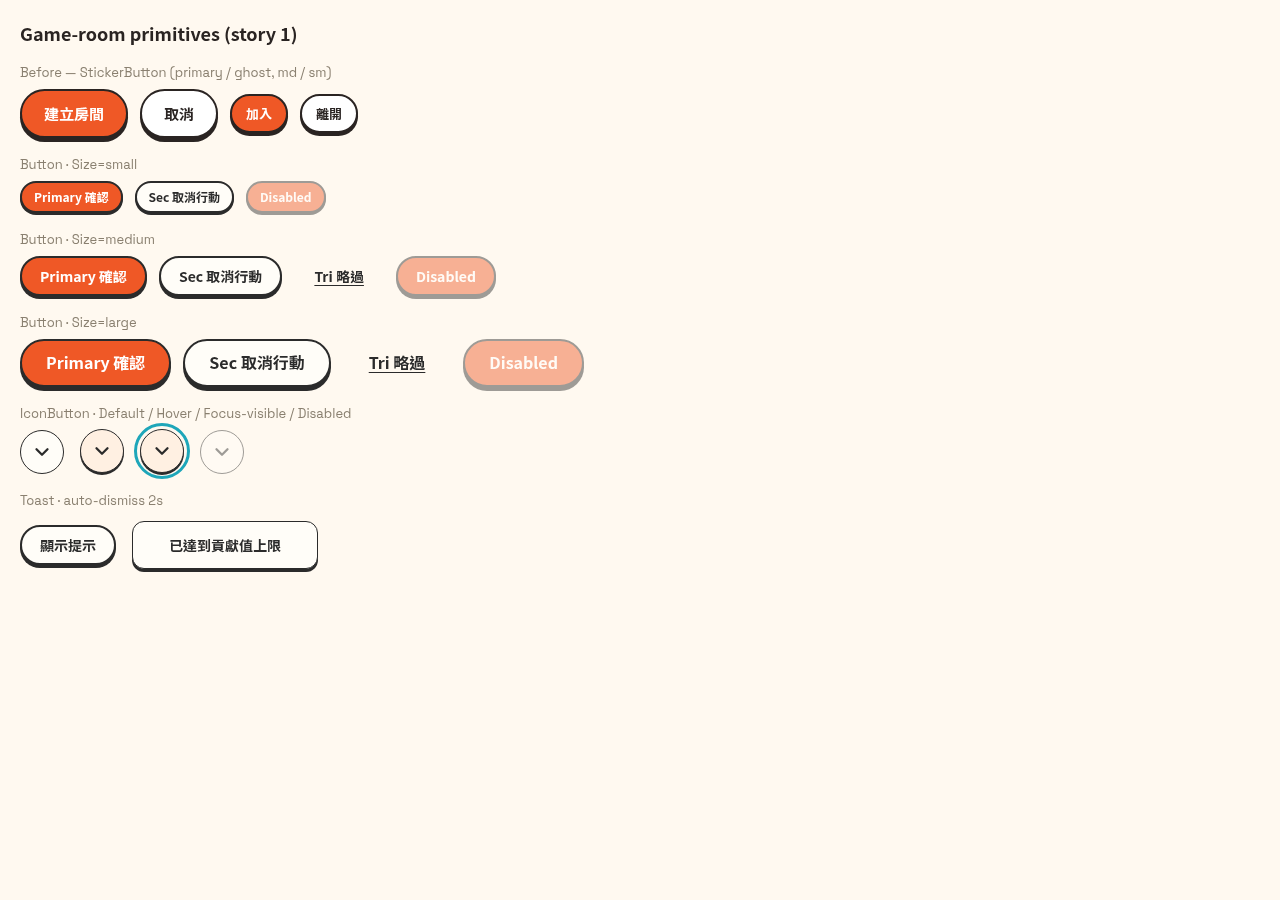
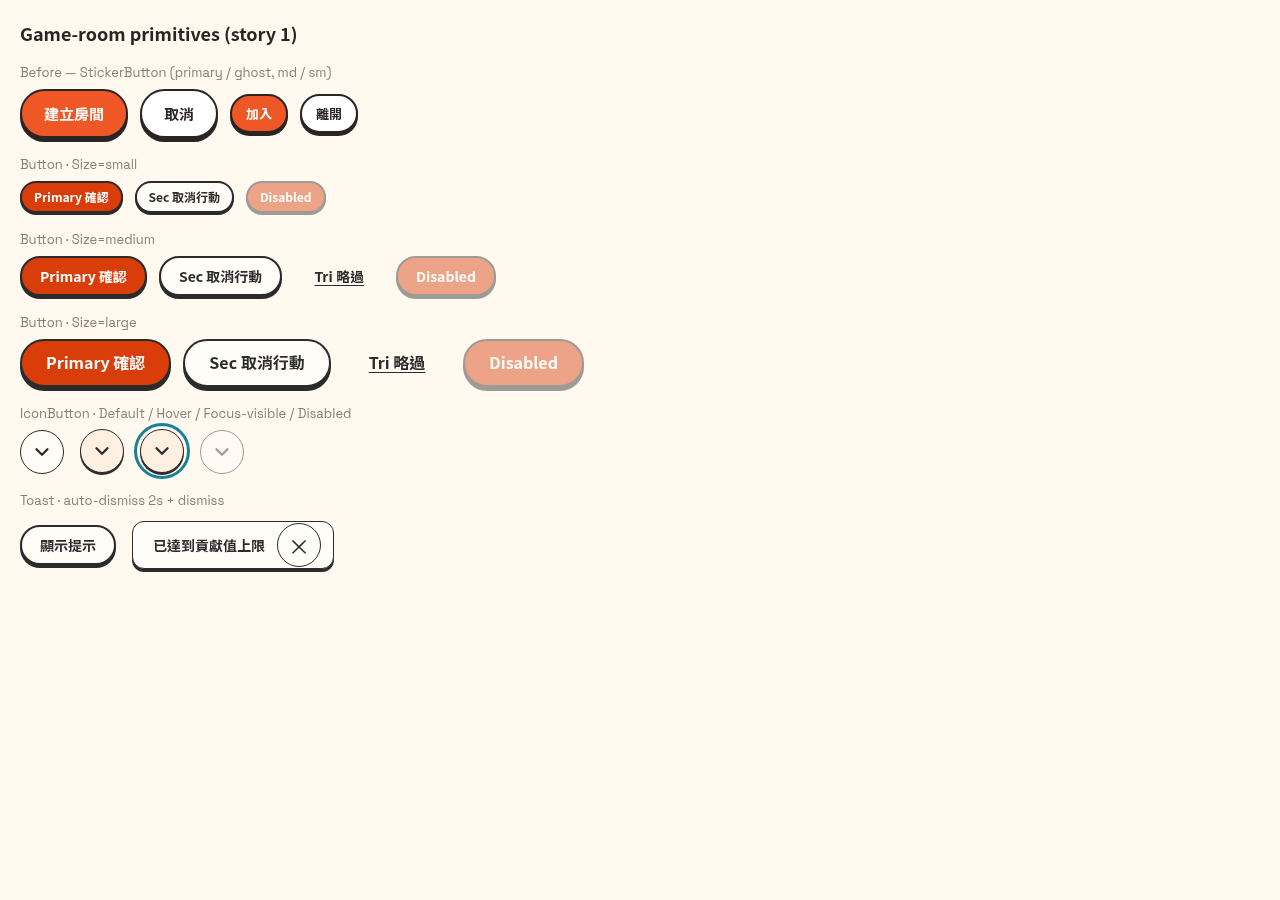
fix(webapp): raise Button contrast and improve Toast dismiss
Use --orange-deep for Primary (4.57:1) and --teal-deep for the
focus ring (4.44:1). Extend Medium/Small hit areas to 44px, and
add a Toast dismiss control that restarts the timer on retrigger.

diff --git a/packages/webapp/src/app/globals.css b/packages/webapp/src/app/globals.css
@@ -600,9 +600,10 @@ body:has(.modal[open]) {
 /* ============================================================
    Game-room primitives (revamp story 1, epic #481): Button,
    IconButton, Toast in components/design/. Hexes come from the
-   Main1.1.1 Figma tokens; the Primary fill reuses --orange.
+   Main1.1.1 Figma tokens; the Primary fill uses --orange-deep for contrast.
    ============================================================ */
 :root {
+  --orange-deeper: #b83208;
   --gr-ink: #2b2b2b; /* Border/Default, Text/Primary */
   --gr-text-secondary: #8a8070;
   --gr-bg-light: #fffdf8;
@@ -642,15 +643,23 @@ body:has(.modal[open]) {
   font-size: 12px;
   box-shadow: 0 2px 0 var(--gr-ink);
 }
-/* Small renders at 32px but keeps a 44px hit area for touch. */
+/* Medium and Small keep a 44px hit area without changing their visible size.
+   ::after is positioned against the padding box, which is 4px shorter than the
+   2px-bordered control, so the vertical inset is 4px more than the visual slop. */
+.gr-btn--medium::after,
 .gr-btn--small::after {
   content: '';
   position: absolute;
-  inset: -6px -2px;
+}
+.gr-btn--medium::after {
+  inset: -4px -2px;
+}
+.gr-btn--small::after {
+  inset: -8px -2px;
 }
 
 .gr-btn--primary {
-  background: var(--orange);
+  background: var(--orange-deep);
   color: #fff;
 }
 .gr-btn--sec {
@@ -670,7 +679,7 @@ body:has(.modal[open]) {
   transform: translateY(1px);
 }
 .gr-btn--primary:not(:disabled):hover {
-  background: var(--orange-deep);
+  background: var(--orange-deeper);
 }
 .gr-btn--sec:not(:disabled):hover,
 .gr-btn--tri:not(:disabled):hover {
@@ -682,7 +691,7 @@ body:has(.modal[open]) {
 }
 .gr-btn:focus-visible,
 .gr-icon-btn:focus-visible {
-  outline: 3px solid var(--teal);
+  outline: 3px solid var(--teal-deep);
   outline-offset: 3px;
 }
 .gr-btn:disabled {
@@ -724,9 +733,10 @@ body:has(.modal[open]) {
   display: inline-flex;
   align-items: center;
   justify-content: center;
+  gap: 12px;
   min-width: 186px;
   min-height: 48px;
-  padding: 12px 20px;
+  padding: 0 12px 0 20px;
   border: 1.5px solid var(--gr-ink);
   border-radius: 12px;
   background: var(--gr-bg-light);
@@ -736,6 +746,9 @@ body:has(.modal[open]) {
   font-size: 14px;
   box-shadow: 0 3px 0 var(--gr-ink);
   animation: gr-toast-in 0.16s ease-out;
+}
+.gr-toast > .gr-icon-btn {
+  flex-shrink: 0;
 }
 @keyframes gr-toast-in {
   from {

diff --git a/packages/webapp/src/components/design/Toast.tsx b/packages/webapp/src/components/design/Toast.tsx
@@ -1,14 +1,17 @@
 'use client';
 
 import { CSSProperties, ReactNode, useEffect, useRef } from 'react';
+import IconButton from '@/components/design/IconButton';
 
 /** Figma annotation on Frame 22: 跳出貢獻上限提示 / 2秒後消失. */
 export const TOAST_DURATION_MS = 2000;
 
 export type ToastProps = {
   open: boolean;
-  /** Called once the toast has been visible for `duration` ms. */
+  /** Called on dismissal or once the toast has been visible for `duration` ms. */
   onClose: () => void;
+  /** Change on each trigger to restart the timer and re-announce an open toast. */
+  resetKey?: string | number;
   children: ReactNode;
   duration?: number;
   className?: string;
@@ -23,6 +26,7 @@ export type ToastProps = {
 export default function Toast({
   open,
   onClose,
+  resetKey,
   children,
   duration = TOAST_DURATION_MS,
   className,
@@ -30,18 +34,33 @@ export default function Toast({
 }: ToastProps) {
   const onCloseRef = useRef(onClose);
   onCloseRef.current = onClose;
+  const timerRef = useRef<number>();
 
   useEffect(() => {
     if (!open) {
       return;
     }
     const timer = window.setTimeout(() => onCloseRef.current(), duration);
+    timerRef.current = timer;
     return () => window.clearTimeout(timer);
-  }, [open, duration]);
+  }, [open, duration, resetKey]);
+
+  function dismiss() {
+    window.clearTimeout(timerRef.current);
+    onCloseRef.current();
+  }
 
   return (
-    <div role="status" aria-live="polite" className={className} style={style}>
-      {open ? <div className="gr-toast">{children}</div> : null}
+    <div className={className} style={style}>
+      <div className={open ? 'gr-toast' : undefined}>
+        <span role="status" aria-live="polite" aria-atomic="true">
+          {/* Replacing the message node re-announces identical notices. */}
+          {open ? <span key={resetKey}>{children}</span> : null}
+        </span>
+        {open ? (
+          <IconButton label="關閉提示" onClick={dismiss}>×</IconButton>
+        ) : null}
+      </div>
     </div>
   );
 }

diff --git a/packages/webapp/src/components/design/GameRoomPrimitives.test.tsx b/packages/webapp/src/components/design/GameRoomPrimitives.test.tsx
@@ -74,6 +74,7 @@ describe('Toast', () => {
     const region = screen.getByRole('status');
     expect(region.getAttribute('aria-live')).toBe('polite');
     expect(region.textContent).toBe('');
+    expect(screen.queryByRole('button', { name: '關閉提示' })).toBeNull();
   });
 
   it('shows the message and dismisses after 2 seconds', () => {
@@ -97,6 +98,32 @@ describe('Toast', () => {
     act(() => jest.advanceTimersByTime(500));
     expect(first).not.toHaveBeenCalled();
     expect(second).toHaveBeenCalledTimes(1);
+  });
+
+  it('dismisses immediately and cancels the auto-hide timer', () => {
+    const onClose = jest.fn();
+    render(<Toast open onClose={onClose}>已達到貢獻值上限</Toast>);
+    act(() => jest.advanceTimersByTime(1500));
+    fireEvent.click(screen.getByRole('button', { name: '關閉提示' }));
+    expect(onClose).toHaveBeenCalledTimes(1);
+    expect(screen.getByRole('status').textContent).toBe('已達到貢獻值上限');
+
+    act(() => jest.advanceTimersByTime(TOAST_DURATION_MS));
+    expect(onClose).toHaveBeenCalledTimes(1);
+  });
+
+  it('restarts the 2-second timer when resetKey changes while open', () => {
+    const onClose = jest.fn();
+    const { rerender } = render(<Toast open resetKey={1} onClose={onClose}>msg</Toast>);
+    const region = screen.getByRole('status');
+    act(() => jest.advanceTimersByTime(1500));
+    rerender(<Toast open resetKey={2} onClose={onClose}>msg</Toast>);
+    expect(screen.getByRole('status')).toBe(region);
+    expect(region.textContent).toBe('msg');
+    act(() => jest.advanceTimersByTime(1500));
+    expect(onClose).not.toHaveBeenCalled();
+    act(() => jest.advanceTimersByTime(500));
+    expect(onClose).toHaveBeenCalledTimes(1);
   });
 
   it('cancels the timer when closed early or unmounted', () => {
